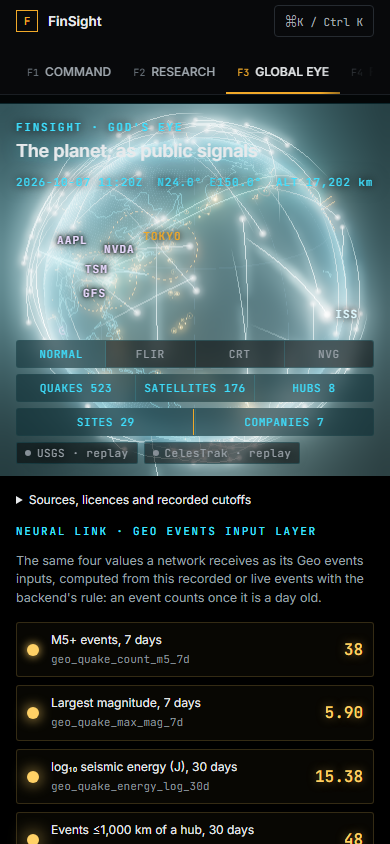
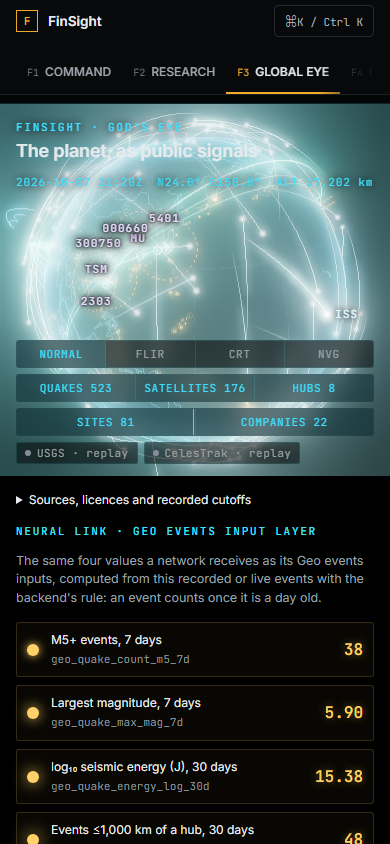
feat(globe): legible chains for the larger graph
Cap globe ticker labels at the top five by chain score with a +N more chip, fan
tier offsets, centre the view on the selected event with a ring marker, stack the
scenario chip above the title, give scenario badges a fixed column, and keep
reached-security rows to one line with a right-aligned distance. The verifier
checks each of these; u3 screenshots regenerated, plus u3-globe-recorded.

diff --git a/frontend-v2/src/components/globe/GlobeScene.tsx b/frontend-v2/src/components/globe/GlobeScene.tsx
@@ -668,11 +668,40 @@ function GraphOverlay({ overlay }: { overlay: GeoOverlay }) {
           gl_FragColor = vec4(vColor, ring); }`,
       }),
     );
-    return { lines, dots };
+    // The selected event itself: a larger ring than any site, in the event's own hue, so a
+    // recorded quake's origin stays findable however faint its arcs are.
+    const mg = new BufferGeometry();
+    const mp = ev ? toVec(ev.lat, ev.lon, R * 1.006) : null;
+    const mc = new Color().setRGB(...arcRgb("proximity", 1, overlay.scenario), SRGBColorSpace);
+    mg.setAttribute(
+      "position",
+      new BufferAttribute(new Float32Array(mp ? [mp.x, mp.y, mp.z] : []), 3),
+    );
+    mg.setAttribute(
+      "aColor",
+      new BufferAttribute(new Float32Array(mp ? [mc.r, mc.g, mc.b] : []), 3),
+    );
+    const marker = new Points(
+      mg,
+      new ShaderMaterial({
+        transparent: true,
+        depthWrite: false,
+        blending: AdditiveBlending,
+        vertexShader: `attribute vec3 aColor; varying vec3 vColor; varying float vFacing;
+          void main(){ vColor = aColor; vec4 mv = modelViewMatrix*vec4(position,1.0);
+          vFacing = dot(normalize(normalMatrix*normalize(position)), normalize(-mv.xyz));
+          gl_PointSize = max(18.0, 520.0/(-mv.z)); gl_Position = projectionMatrix*mv; }`,
+        fragmentShader: `varying vec3 vColor; varying float vFacing; void main(){
+          float d = length(gl_PointCoord-0.5); if (d > 0.5 || vFacing < 0.0) discard;
+          float ring = smoothstep(0.06, 0.0, abs(d-0.40)) + 0.9*smoothstep(0.12, 0.0, d);
+          gl_FragColor = vec4(vColor, ring); }`,
+      }),
+    );
+    return { lines, dots, marker };
   }, [overlay]);
   useEffect(
     () => () => {
-      for (const o of [data.lines, data.dots]) {
+      for (const o of [data.lines, data.dots, data.marker]) {
         o.geometry.dispose();
         (o.material as ShaderMaterial).dispose();
       }
@@ -683,8 +712,40 @@ function GraphOverlay({ overlay }: { overlay: GeoOverlay }) {
     <>
       <primitive object={data.lines} />
       {overlay.sites.length > 0 && <primitive object={data.dots} />}
+      {overlay.event && <primitive object={data.marker} />}
     </>
   );
+}
+
+/**
+ * Turns the view toward a newly selected event (keeping the zoom), so its marker, arcs and tier
+ * labels face the viewer instead of sitting on the limb. Reduced motion jumps instead of easing.
+ */
+function FocusOn({
+  target,
+  reduced,
+}: {
+  target: { lat: number; lon: number } | null;
+  reduced: boolean;
+}) {
+  const goal = useRef<Vector3 | null>(null);
+  const key = target ? `${target.lat},${target.lon}` : "";
+  useEffect(() => {
+    goal.current = target ? toVec(target.lat, target.lon, 1).normalize() : null;
+    // eslint-disable-next-line react-hooks/exhaustive-deps
+  }, [key]);
+  useFrame(({ camera }) => {
+    const g = goal.current;
+    if (!g) return;
+    const r = camera.position.length();
+    const want = g.clone().multiplyScalar(r);
+    if (reduced || camera.position.distanceTo(want) < 0.002 * r) {
+      camera.position.copy(want);
+      goal.current = null;
+    } else camera.position.lerp(want, 0.12).setLength(r);
+    camera.lookAt(0, 0, 0);
+  });
+  return null;
 }
 
 /** Hub and ISS names, projected each frame and hidden on the far side of the globe. */
@@ -893,7 +954,7 @@ export default function GlobeScene({
         rotateSpeed={0.5}
         minDistance={R * 1.35}
         maxDistance={R * 6}
-        autoRotate={!reduced}
+        autoRotate={!reduced && !overlay?.event}
         autoRotateSpeed={0.25}
       />
       <Earth sun={sun} />
@@ -904,6 +965,7 @@ export default function GlobeScene({
       )}
       {markers && markers.length > 0 && <Markers markers={markers} />}
       {overlay && <GraphOverlay overlay={overlay} />}
+      {overlay && <FocusOn target={overlay.event} reduced={reduced} />}
       {layers.satellites && tles.length > 0 && (
         <Satellites tles={tles} onCount={onSatellites} iss={iss} dim={!!overlay?.scenario} />
       )}

diff --git a/frontend-v2/src/components/globe/geo-overlay.ts b/frontend-v2/src/components/globe/geo-overlay.ts
@@ -32,7 +32,11 @@ export type GeoOverlay = {
   labels: OverlayLabel[];
   event: { lat: number; lon: number; radiusKm: number | null } | null;
   scenario: boolean;
+  /** Reached securities drawn on the globe without a label (beyond MAX_LABELS); listed in the panel. */
+  moreLabels: number;
 };
+/** At most this many ticker labels on the globe, the highest chain scores first. */
+export const MAX_LABELS = 5;
 
 /** Hue names the edge type. Scenario arcs use an amber family so a hypothesis never looks recorded. */
 export const ARC_COLORS: Record<ArcKind, string> = {
@@ -92,12 +96,15 @@ function ticker(p: GeoProjection, id: string) {
   return listing ? shortName(p.nodes[listing.dst], listing.dst) : null;
 }
 
-function tier(ids: string[], lat: number, lon: number, level: number) {
+function tier(ids: string[], lat: number, lon: number, level: number, fan = false) {
   const out = new Map<string, [number, number, number]>();
+  // A fanned tier spaces its nodes wider and staggers alternate ones in latitude, so the labels
+  // of neighbours never sit on one line.
+  const step = fan ? SPREAD * 1.6 : SPREAD;
   ids.forEach((id, k) =>
     out.set(id, [
-      Math.max(-80, Math.min(80, lat + 2 * level)),
-      lon + (k - (ids.length - 1) / 2) * SPREAD,
+      Math.max(-80, Math.min(80, lat + 2 * level + (fan && k % 2 ? 4 : 0))),
+      lon + (k - (ids.length - 1) / 2) * step,
       TIERS[level],
     ]),
   );
@@ -119,6 +126,7 @@ export function buildOverlay(
   const sites: OverlaySite[] = [];
   const arcs: OverlayArc[] = [];
   const labels: OverlayLabel[] = [];
+  let moreLabels = 0;
   const scenario = !!selected?.scenario && drawsChain(selected.answer);
   const arc = (key: string, a: OverlayArc["a"], b: OverlayArc["b"], value: number, kind: ArcKind) =>
     arcs.push({ key, a, b, value, kind, rgb: arcRgb(kind, value, scenario) });
@@ -162,7 +170,7 @@ export function buildOverlay(
         if (h.type === "supplies") add(1, h.dst);
         if (h.type === "listed_as") add(2, h.dst);
       }
-    const pos = new Map([0, 1, 2].flatMap((k) => [...tier(levels[k], ev[0], ev[1], k)]));
+    const pos = new Map([0, 1, 2].flatMap((k) => [...tier(levels[k], ev[0], ev[1], k, true)]));
     for (const r of answer.securities)
       for (const h of r.best_chain.hops) {
         if (h.type === "exposed_to") continue;
@@ -171,8 +179,10 @@ export function buildOverlay(
         const b = site ? pos.get(h.src) : pos.get(h.dst);
         if (a && b && !arcs.some((x) => x.key === h.id)) arc(h.id, a, b, h.confidence, h.type);
       }
-    // Tickers only on the globe; company names live in the panel.
-    for (const id of levels[2]) label(id, pos.get(id)!);
+    // Tickers only on the globe, the top MAX_LABELS by chain score (securities arrive ranked);
+    // company names and the rest live in the panel.
+    for (const id of levels[2].slice(0, MAX_LABELS)) label(id, pos.get(id)!);
+    moreLabels = Math.max(0, levels[2].length - MAX_LABELS);
   } else if (layers.companies) {
     // Each operator floats above its largest site cluster, tethered to every site it operates;
     // the other companies ring it, joined only by cited supplies edges.
@@ -215,6 +225,7 @@ export function buildOverlay(
     arcs,
     labels,
     scenario,
+    moreLabels,
     event: selected
       ? { lat: selected.lat, lon: selected.lon, radiusKm: selected.answer.radius_km }
       : null,

diff --git a/frontend-v2/src/components/globe/globe.css b/frontend-v2/src/components/globe/globe.css
@@ -632,9 +632,46 @@
   cursor: pointer;
   font-size: 12px;
 }
+/* One line per reached security: ticker, the route (truncated), the distance right-aligned. */
+.ge-secs summary.ge-sec-row {
+  display: grid;
+  grid-template-columns: 10px auto minmax(0, 1fr) auto;
+  align-items: baseline;
+  column-gap: 8px;
+  list-style: none;
+}
+.ge-secs summary.ge-sec-row::-webkit-details-marker {
+  display: none;
+}
+.ge-secs summary.ge-sec-row::before {
+  content: "▸";
+  color: var(--ge-faint);
+}
+.ge-secs details[open] > summary.ge-sec-row::before {
+  content: "▾";
+}
+.ge-sec-via {
+  overflow: hidden;
+  white-space: nowrap;
+  text-overflow: ellipsis;
+}
+.ge-sec-km {
+  color: var(--ge-muted);
+  text-align: right;
+  white-space: nowrap;
+}
 .ge-secs summary b {
-  margin-right: 8px;
   color: var(--ge-amber);
+}
+.ge-more {
+  display: inline-block;
+  margin: 0 0 6px;
+  padding: 2px 8px;
+  border: 1px solid var(--ge-line);
+  border-radius: 2px;
+  background: rgba(3, 6, 7, 0.75);
+  color: var(--ge-fg);
+  font-size: 11px;
 }
 .ge-secs summary > span {
   color: var(--ge-muted);
@@ -722,7 +759,15 @@
 .ge-scen button[aria-pressed="true"] {
   background: rgba(63, 224, 255, 0.1);
 }
+/* The kind badge ("M6.8", "conflict") gets its own fixed column, clear of the title. */
+.ge-scen button {
+  grid-template-columns: 64px minmax(0, 1fr) auto;
+  column-gap: 10px;
+}
 .ge-scen b {
+  overflow: hidden;
+  white-space: nowrap;
+  text-overflow: ellipsis;
   color: var(--ge-amber);
 }
 .ge-scen em {
@@ -754,8 +799,7 @@
 /* A scenario is never mistaken for a recording: a solid chip on the globe, hero copy hidden. */
 .ge-hypo {
   top: 30px;
-  left: 50%;
-  transform: translateX(-50%);
+  left: 34px;
   padding: 4px 10px;
   border-radius: 2px;
   background: var(--ge-amber);
@@ -765,6 +809,10 @@
   text-transform: uppercase;
   white-space: nowrap;
   pointer-events: none;
+}
+/* The chip and the title are stacked, never overlapping: the title moves down under the chip. */
+.globe.ge-scenario .ge-title {
+  top: 64px;
 }
 /* Text is either legible or absent: the hero copy and the readout step aside during a scenario. */
 .globe.ge-scenario .ge-title p,
@@ -825,11 +873,15 @@
   .ge-focus {
     display: none;
   }
+  /* Stacked, never overlapping: the scenario chip first, then the kicker and title below it. */
   .ge-hypo {
-    top: auto;
-    bottom: calc(100% - 44px);
-    left: auto;
+    top: 16px;
+    left: 16px;
     right: 16px;
-    transform: none;
+    white-space: normal;
+    text-align: center;
+  }
+  .globe.ge-scenario .ge-title {
+    top: 70px;
   }
 }

diff --git a/frontend-v2/src/components/globe/GeoPanel.tsx b/frontend-v2/src/components/globe/GeoPanel.tsx
@@ -235,15 +235,15 @@ function AnswerView({
             {answer.securities.map((r) => (
               <li key={r.security} data-geo-security={r.security}>
                 <details>
-                  <summary>
+                  <summary className="ge-sec-row">
                     <b className="mono" title={full(r.security)}>
                       {name(r.security)}
                     </b>
-                    <span>
+                    <span className="ge-sec-via" title={full(r.best_chain.site)}>
                       chain score <span className="mono">{r.score.toFixed(4)}</span> · via{" "}
-                      <span title={full(r.best_chain.site)}>{name(r.best_chain.site)}</span> ≈{" "}
-                      {km(r.best_chain.distance_km)}
+                      {name(r.best_chain.site)}
                     </span>
+                    <span className="ge-sec-km mono">≈ {km(r.best_chain.distance_km)}</span>
                   </summary>
                   <ol className="ge-hops">
                     {r.best_chain.hops.map((h) => (

diff --git a/frontend-v2/src/components/globe/GlobePage.tsx b/frontend-v2/src/components/globe/GlobePage.tsx
@@ -286,6 +286,12 @@ export default function GlobePage() {
           <header className="ge-hud ge-title">
             <div className="ge-eyebrow">FinSight · God's Eye</div>
             <h1>The planet, as public signals</h1>
+            {overlay && overlay.moreLabels > 0 && (
+              <div className="ge-more mono" data-geo-more={overlay.moreLabels}>
+                +{overlay.moreLabels} more reached{" "}
+                {overlay.moreLabels === 1 ? "security" : "securities"}, listed in the panel
+              </div>
+            )}
             <p>
               {mode === "replay"
                 ? "Checked USGS earthquakes and a frozen CelesTrak satellite snapshot over eight market hubs. Each layer records its own cutoff."

diff --git a/docs/u3b-graph-growth.md b/docs/u3b-graph-growth.md
@@ -126,6 +126,26 @@ quake with Toyota's linked Sunter plant.
 - **Seed breadth.** v2 has 22 companies, short of the ~100 aimed for. Breadth was traded for one
   opened, dated source per fact.
 
+## Globe changes for the larger graph
+
+- **Ticker labels.** At most five ticker labels are drawn, the highest chain scores first (`MAX_LABELS` in
+  `geo-overlay.ts`). The other securities keep their arcs, and a "+N more reached securities, listed
+  in the panel" chip sits under the title. Tier positions fan out: wider spacing, and alternate nodes
+  staggered in latitude, so neighbouring labels no longer share a line.
+- **Selected event.** When an event is selected, the view turns to centre it (a jump under reduced
+  motion), and auto-rotation stops. The event gets a ring marker larger than any site, in the hue of
+  its own mode: recorded yellow, scenario pale amber. Arc brightness still encodes only confidence
+  or proximity. WebGL lines cannot vary in width, so visibility comes from centring and the marker.
+- **Stacked chip.** The scenario chip is stacked above the kicker and title at every width, and the
+  title moves down while a scenario is shown.
+- **Panel rows.** Scenario badges have a fixed 64 px column. Each reached-security row is one line:
+  the ticker, the route truncated with an ellipsis, then the distance in a right-aligned column.
+- **Verifier checks.** `verify-globe-graph.mjs` checks the label cap and the "+N" count. It checks
+  that the chip overlaps neither the kicker nor the title, that no badge overlaps its title, that
+  security rows are one line, and that the recorded Java Sea quake's ticker label is drawn after the
+  view turns.
+- **Screenshots.** `--screenshots` also writes `u3-globe-recorded-{1440,390}.png`.
+
 ## How to regenerate
 
 ```bash
